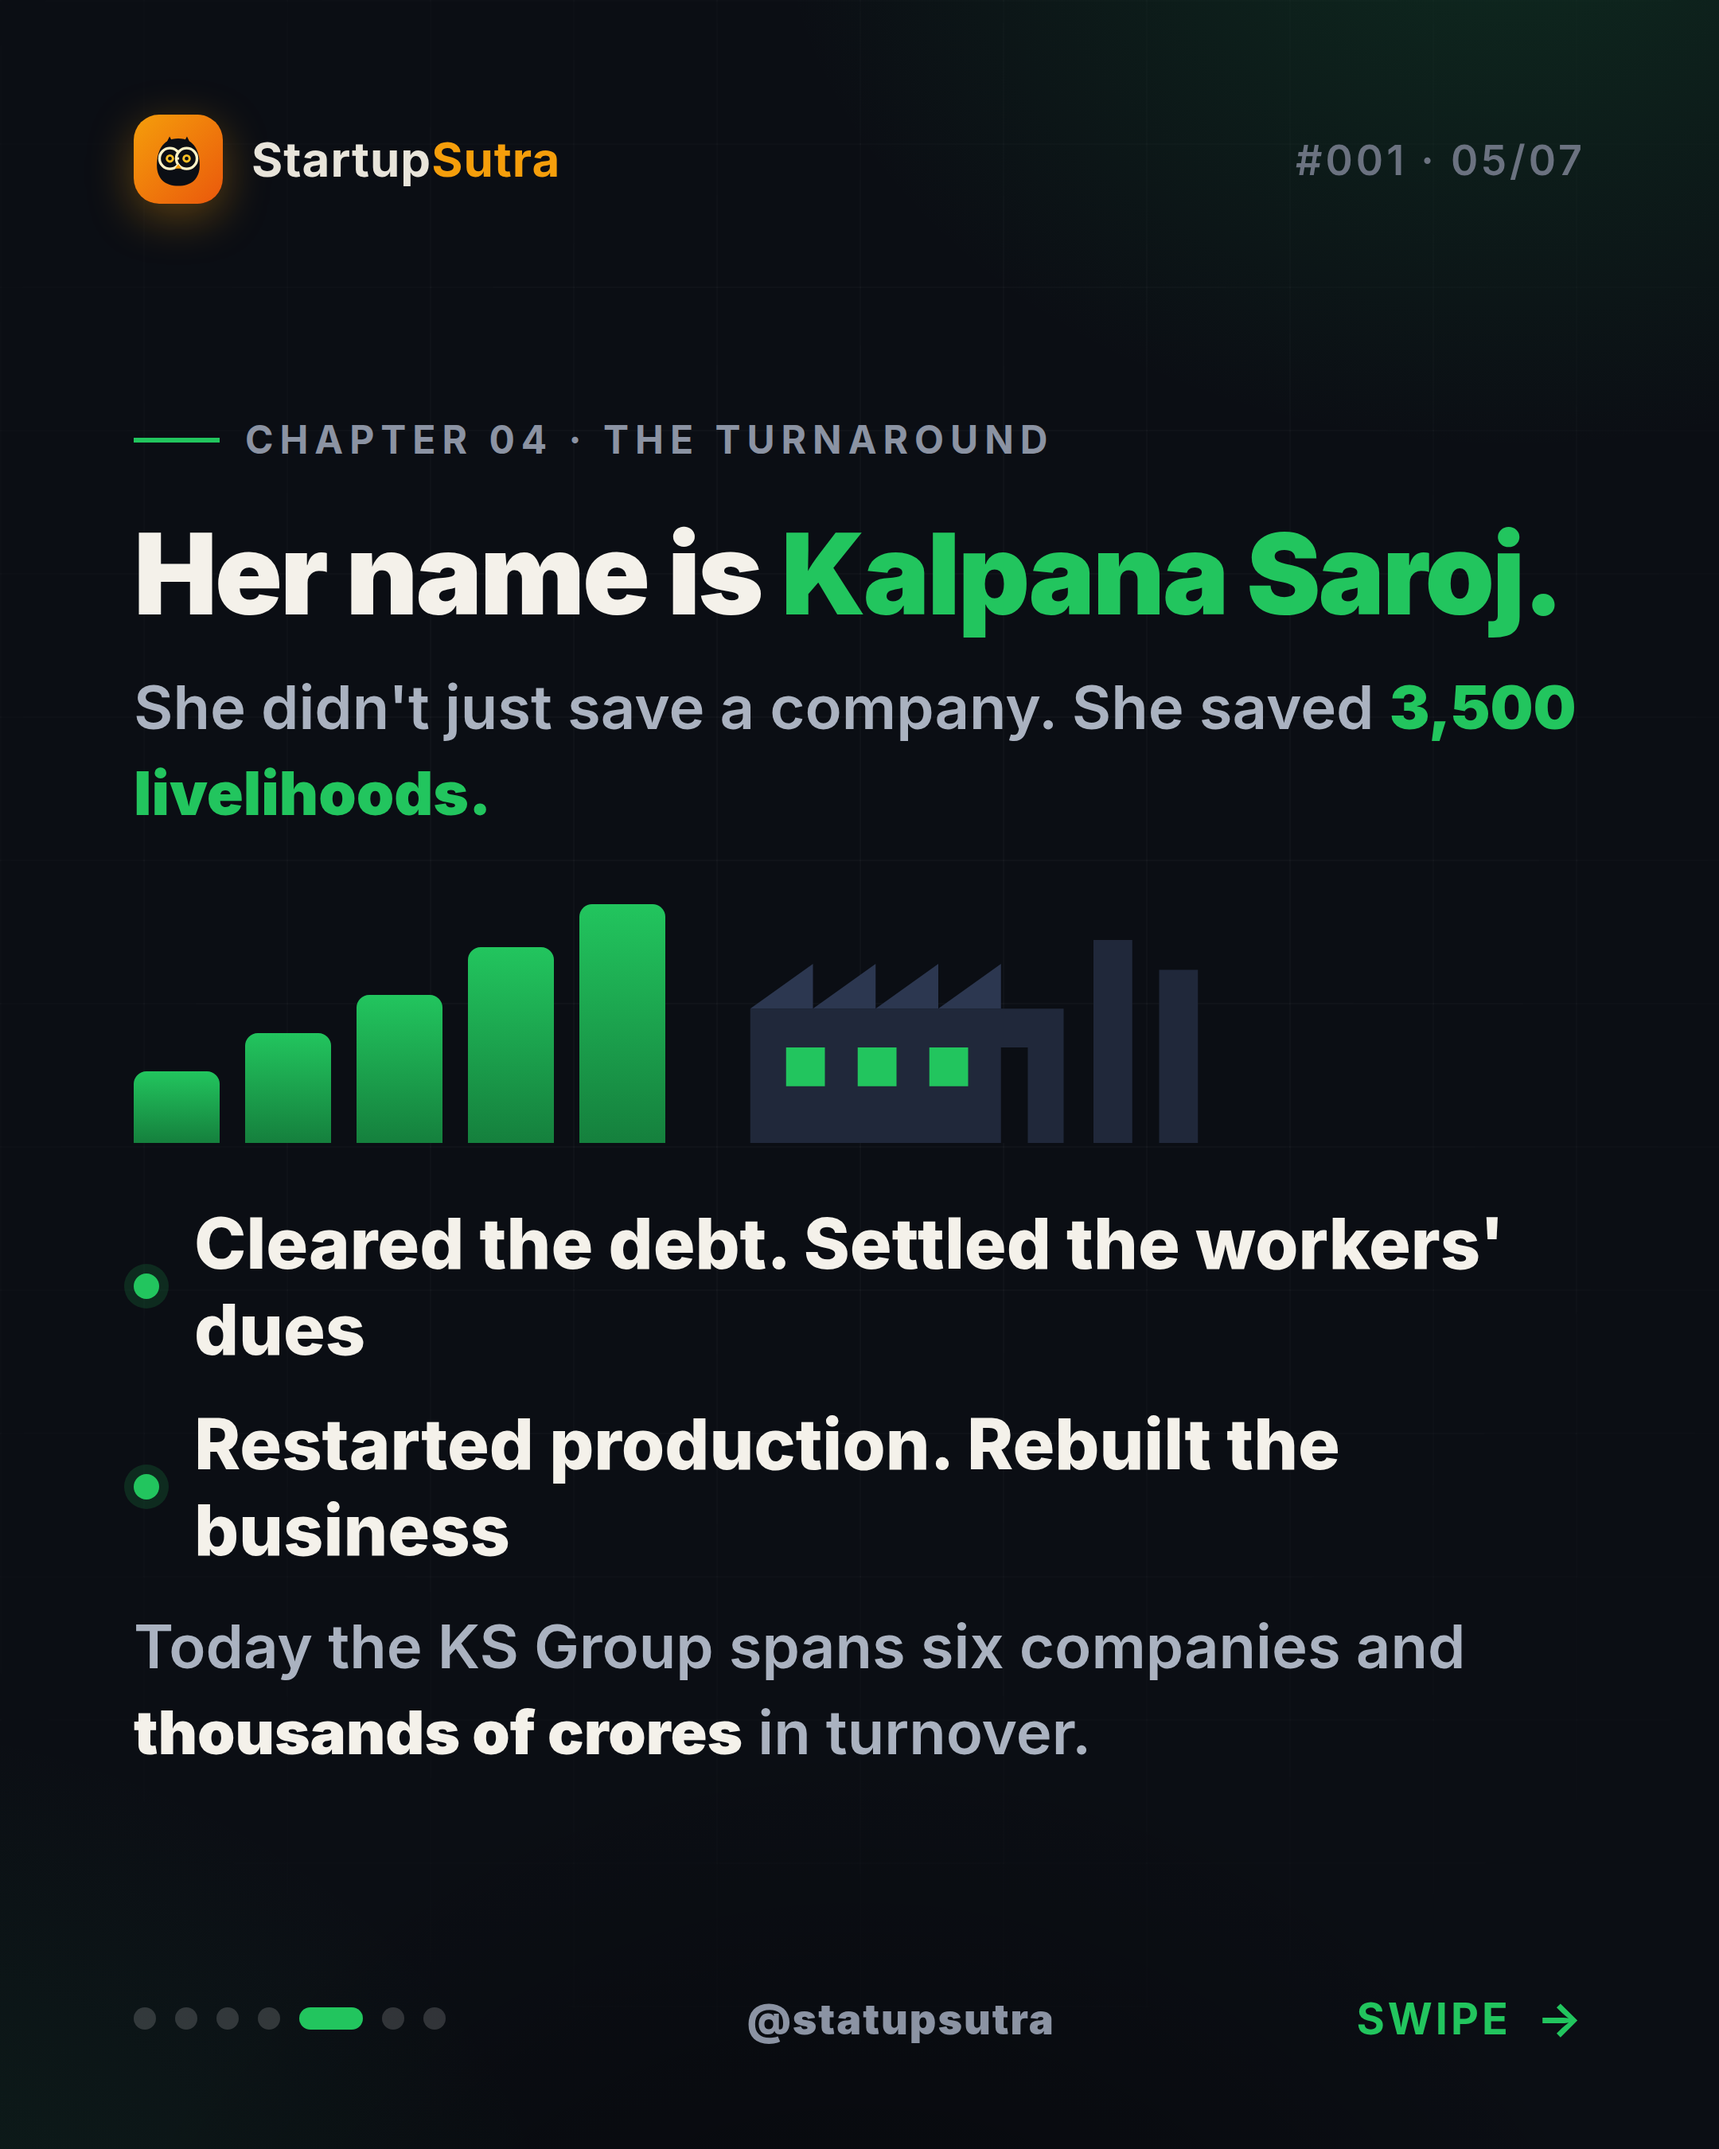
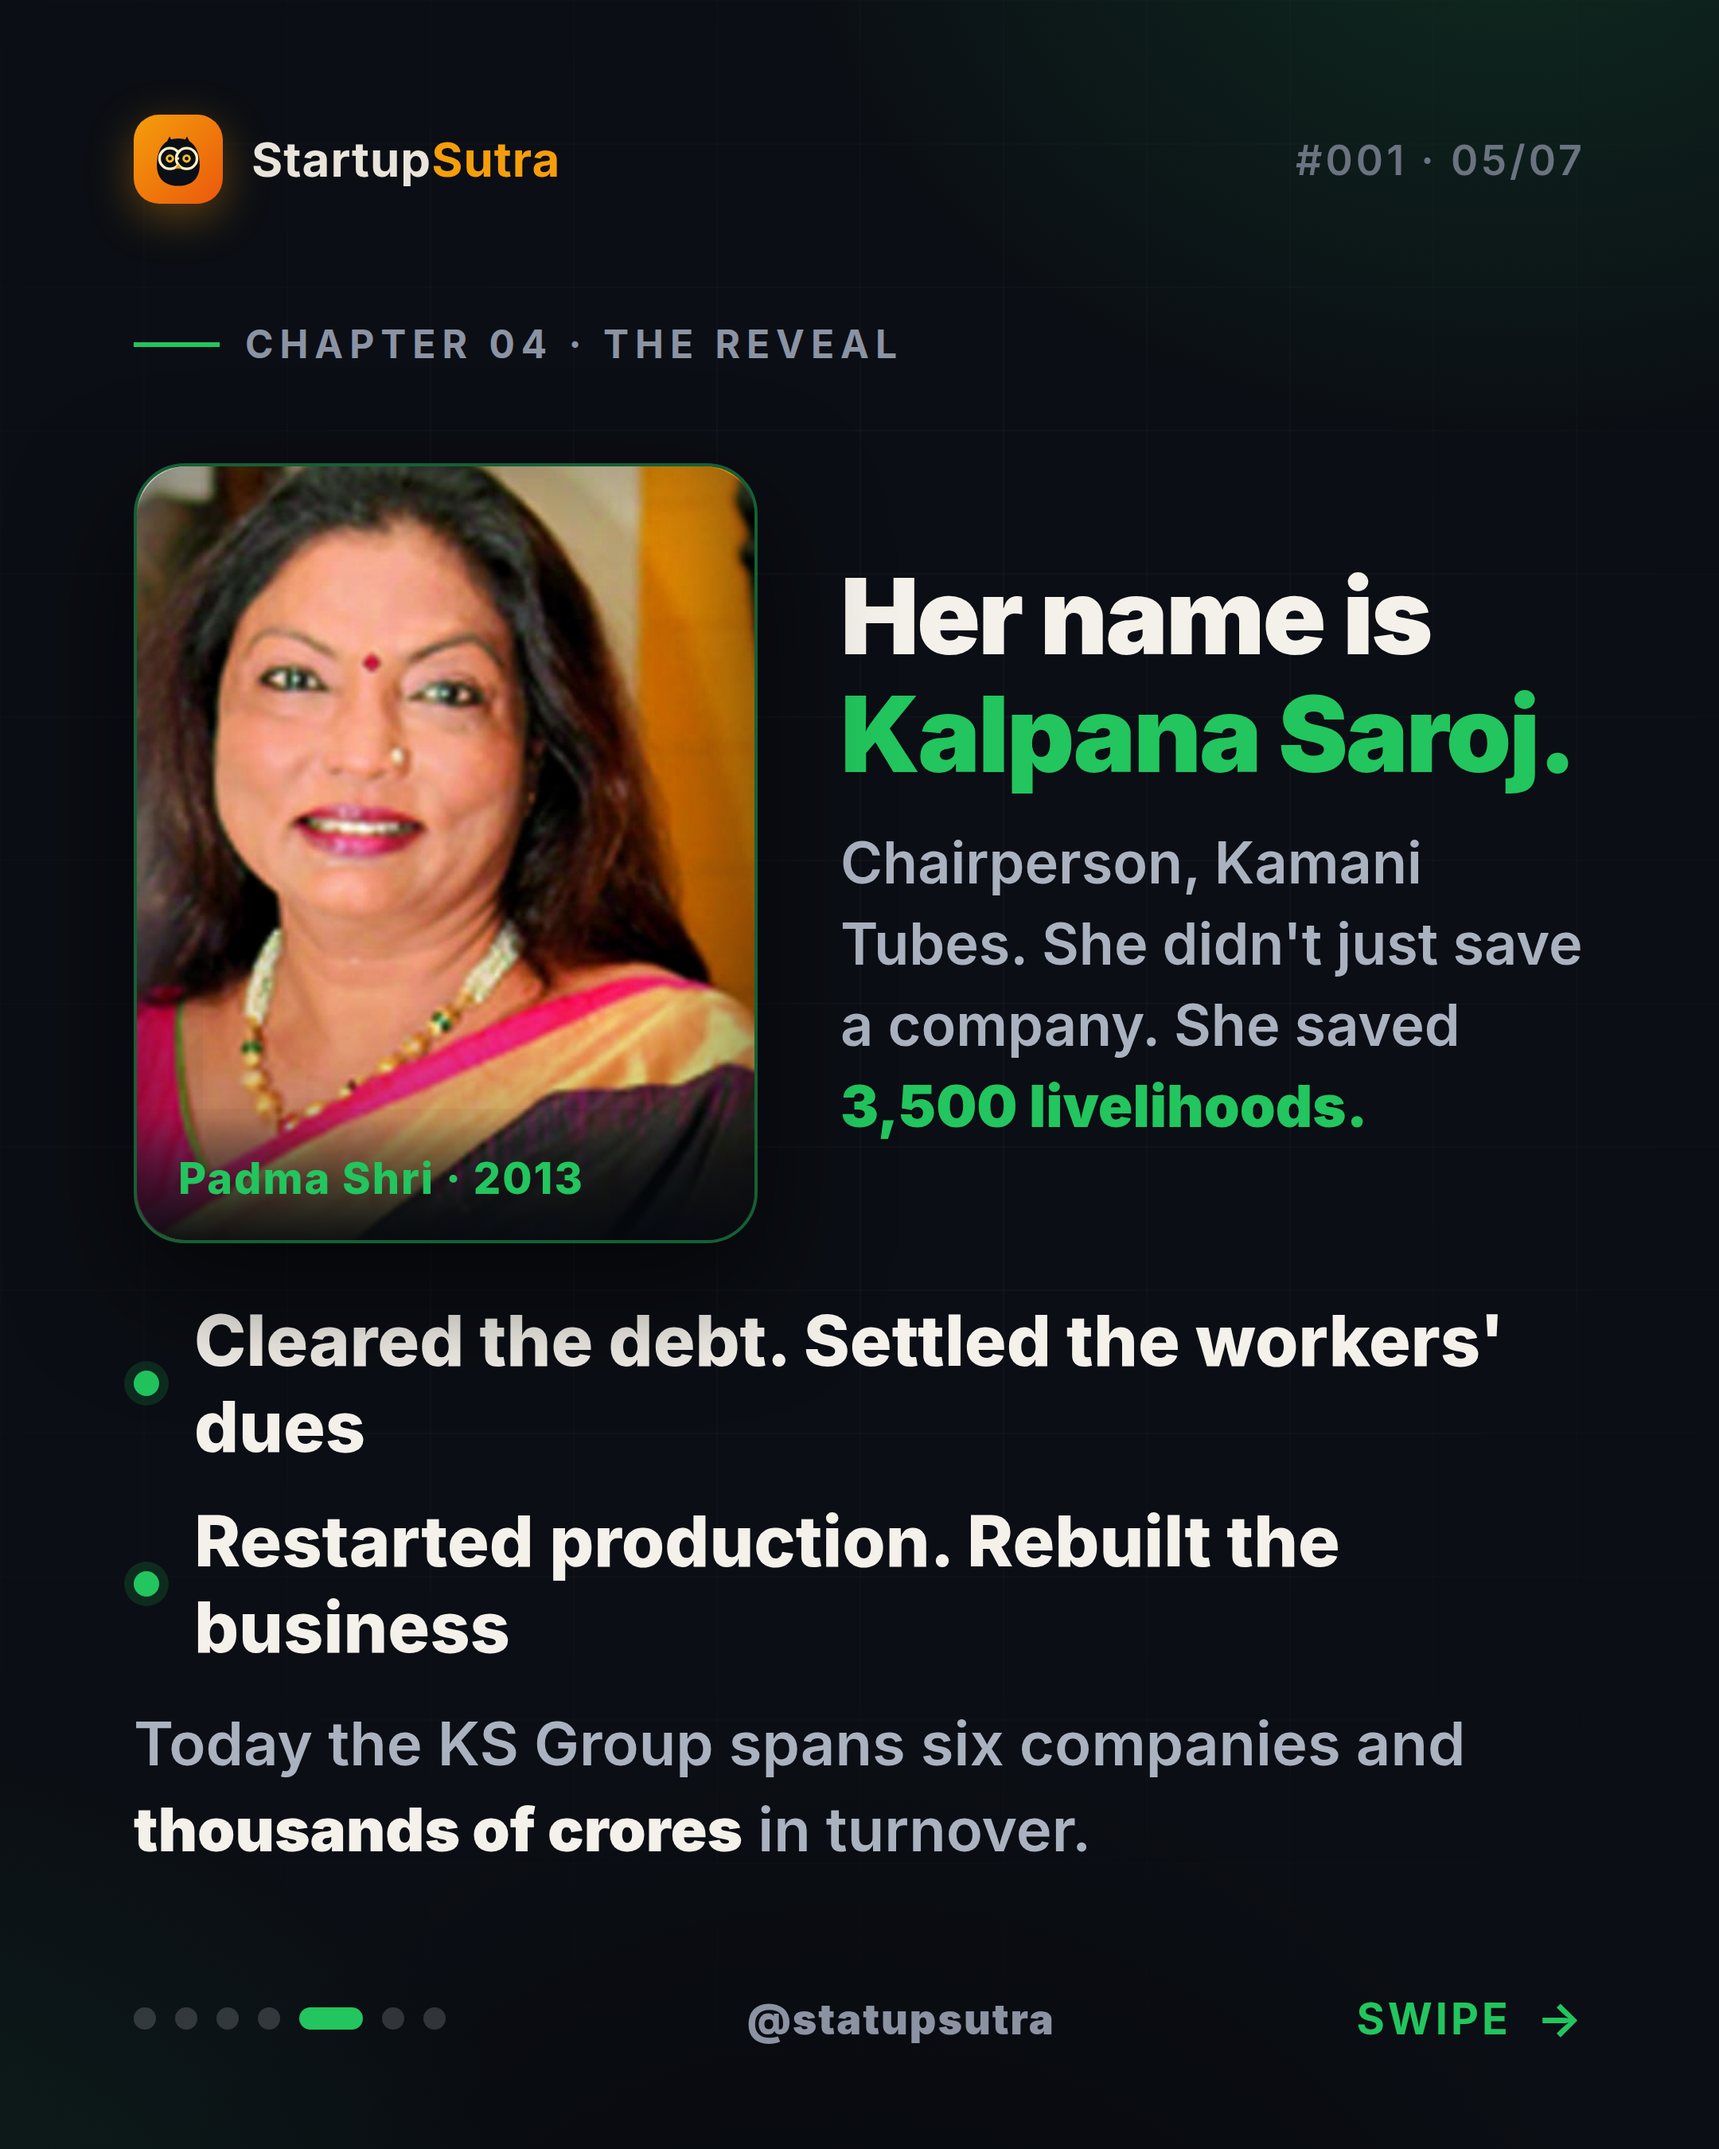
Kalpana slide 5: real-photo reveal (composite her portrait)
Composites Kalpana Saroj's real portrait into the slide-5 reveal (green-rimmed
card + Padma Shri 2013 badge), paying off the slide-1 mystery. Photo supplied by
the user, cropped and integrated into the documentary layout.

Claude-Session: https://claude.ai/code/session_01LRcEgKfHXnrMC6oknzTBx2

Changed region(s): [[0.062, 0.1556, 0.9306, 0.8711]]

diff --git a/StartupSutra/2026-07-25-kalpana-saroj-founder-framework/source/carousel.html b/StartupSutra/2026-07-25-kalpana-saroj-founder-framework/source/carousel.html
@@ -83,6 +83,16 @@
 
   .followcard { margin-top:44px; display:flex; align-items:center; gap:30px; border-left:8px solid #22c55e; border-radius:8px 28px 28px 8px;
     background:rgba(34,197,94,.10); padding:36px 48px; font-weight:800; font-size:46px; }
+  /* real-photo reveal */
+  .revealrow { display:flex; gap:52px; align-items:center; margin:30px 0 8px; }
+  .realport { width:392px; height:490px; border-radius:32px; overflow:hidden; position:relative; flex-shrink:0;
+    border:2px solid rgba(34,197,94,.45); box-shadow:0 28px 74px rgba(0,0,0,.6); }
+  .realport img { width:100%; height:100%; object-fit:cover; object-position:50% 30%; }
+  .realport::after { content:''; position:absolute; inset:0; box-shadow:inset 0 -70px 90px rgba(6,9,14,.55), inset 0 0 60px rgba(0,0,0,.25);
+    border-radius:32px; }
+  .realport .badge { position:absolute; left:0; right:0; bottom:0; z-index:3; padding:22px 26px;
+    background:linear-gradient(0deg, rgba(6,9,14,.9), transparent); font-weight:800; font-size:27px; color:#22c55e; letter-spacing:1px; }
+  .revealtext { flex:1; }
   .cinelabel { align-self:flex-start; font-weight:700; font-size:22px; letter-spacing:3px; text-transform:uppercase; color:#22c55e;
     padding:12px 24px; border:1.5px solid rgba(34,197,94,.4); border-radius:999px; background:rgba(34,197,94,.07); margin-bottom:34px; }
 </style>
@@ -189,14 +199,15 @@
 <div class="slide" id="s5"><div class="inner">
   <div class="topbar"><div class="brand"><div class="mark"><svg width="42" height="42"><use href="#owl"/></svg></div><div class="name">Startup<span>Sutra</span></div></div><div class="counter">#001 · 05/07</div></div>
   <div class="body">
-    <div class="chapter"><span class="ln"></span>Chapter 04 · The Turnaround</div>
-    <h1 style="font-size:70px;">Her name is <span class="accent">Kalpana Saroj.</span></h1>
-    <div class="sub" style="margin-top:18px;">She didn't just save a company. She saved <strong style="color:#22c55e;">3,500 livelihoods.</strong></div>
-    <div style="display:flex; align-items:flex-end; gap:44px; margin:34px 0 6px;">
-      <div class="growth"><i style="height:30%"></i><i style="height:46%"></i><i style="height:62%"></i><i style="height:82%"></i><i style="height:100%"></i></div>
-      <svg width="300" height="150"><use href="#factory"/></svg>
+    <div class="chapter"><span class="ln"></span>Chapter 04 · The Reveal</div>
+    <div class="revealrow">
+      <div class="realport"><img src="img/ks-reveal.jpg" alt="Kalpana Saroj"><div class="badge">Padma Shri · 2013</div></div>
+      <div class="revealtext">
+        <h1 style="font-size:66px;">Her name is <span class="accent">Kalpana Saroj.</span></h1>
+        <div class="sub" style="margin-top:18px; font-size:36px;">Chairperson, Kamani Tubes. She didn't just save a company. She saved <strong style="color:#22c55e;">3,500 livelihoods.</strong></div>
+      </div>
     </div>
-    <div class="beats">
+    <div class="beats" style="margin-top:26px;">
       <div class="beat"><span class="d"></span>Cleared the debt. Settled the workers' dues</div>
       <div class="beat"><span class="d"></span>Restarted production. Rebuilt the business</div>
     </div>
